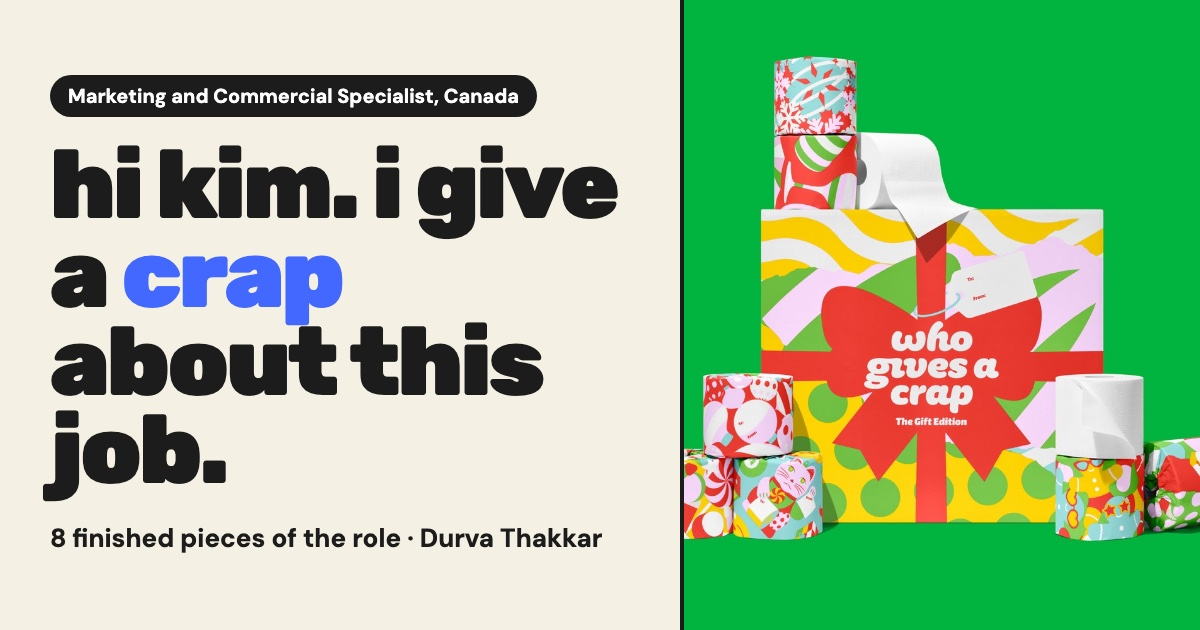
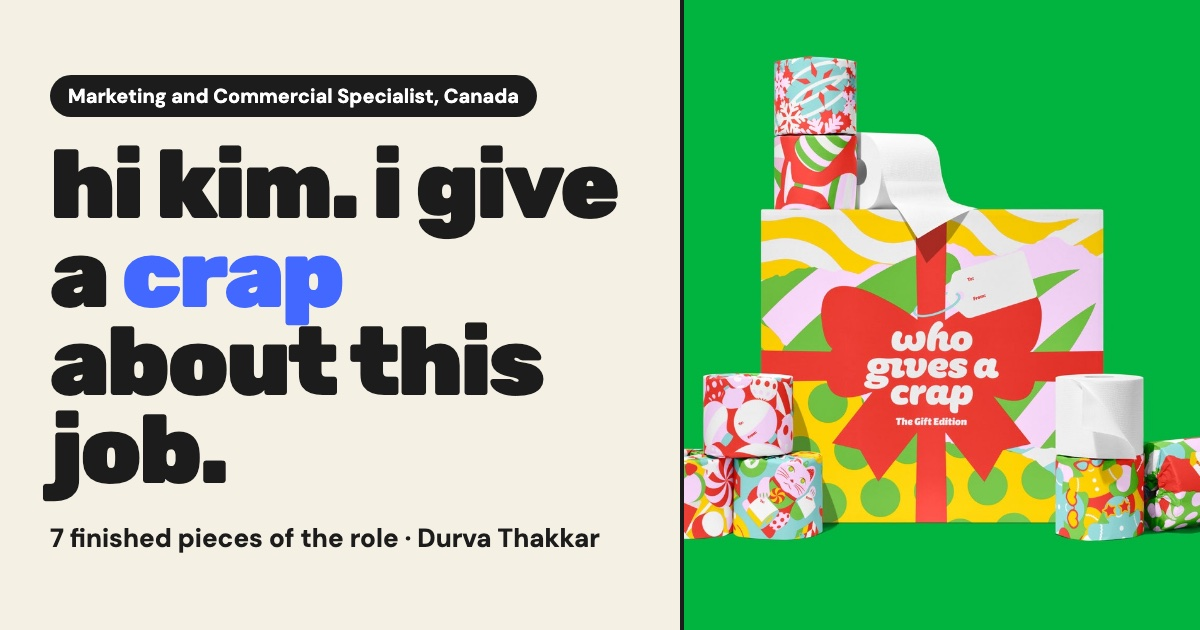
WGAC: 20-second intro film with Kim, Kim on a hero roll, ticker, scroll motion; budget section and hero chips removed

Changed region(s): [[0.0308, 0.8444, 0.5242, 0.8746]]

diff --git a/wgac/index.html b/wgac/index.html
@@ -5,16 +5,16 @@
 <meta name="viewport" content="width=device-width, initial-scale=1">
 <title>Hi Kim · Durva for Who Gives A Crap Canada</title>
 <meta name="robots" content="noindex">
-<meta name="description" content="Marketing and Commercial Specialist, Canada. The first few weeks of the job, already done: campaign board, agency WIP, a Canadian social calendar, a Canadian fit check, influencer review, budget tracker, B2B replies and a test backlog.">
+<meta name="description" content="Marketing and Commercial Specialist, Canada. The first few weeks of the job, already done: campaign board, agency WIP, a Canadian social calendar, a Canadian fit check, influencer review, B2B replies and a test backlog.">
 <meta property="og:title" content="Hi Kim. I give a crap about this job.">
-<meta property="og:description" content="Eight finished pieces of the Marketing and Commercial Specialist role, made for Who Gives A Crap Canada.">
+<meta property="og:description" content="Seven finished pieces of the Marketing and Commercial Specialist role, made for Who Gives A Crap Canada.">
 <meta property="og:type" content="website">
 <meta property="og:url" content="https://durvathakkar.com/wgac/">
-<meta property="og:image" content="https://durvathakkar.com/wgac/share.jpg?v=1">
+<meta property="og:image" content="https://durvathakkar.com/wgac/share.jpg?v=2">
 <meta property="og:image:width" content="1200">
 <meta property="og:image:height" content="630">
 <meta name="twitter:card" content="summary_large_image">
-<meta name="twitter:image" content="https://durvathakkar.com/wgac/share.jpg?v=1">
+<meta name="twitter:image" content="https://durvathakkar.com/wgac/share.jpg?v=2">
 <link rel="preconnect" href="https://fonts.googleapis.com">
 <link rel="preconnect" href="https://fonts.gstatic.com" crossorigin>
 <link href="https://fonts.googleapis.com/css2?family=Rubik:wght@500;700;800;900&family=DM+Sans:opsz,wght@9..40,400;9..40,500;9..40,700&display=swap" rel="stylesheet">
@@ -69,7 +69,7 @@ img{max-width:100%;display:block}
 .call{padding:56px 0 30px}
 .call h2{font-size:clamp(30px,4vw,48px);font-weight:900;text-transform:lowercase}
 .call p{max-width:640px}
-.rolls{display:grid;grid-template-columns:repeat(8,1fr);gap:14px;margin-top:30px}
+.rolls{display:grid;grid-template-columns:repeat(7,1fr);gap:14px;margin-top:30px}
 .rc{text-decoration:none;display:flex;flex-direction:column;align-items:center;gap:12px;text-align:center}
 .rc .roll{position:relative;width:100%;max-width:110px;height:120px;transition:transform .2s}
 .rc:hover .roll{transform:translateY(-8px) rotate(-4deg)}
@@ -190,14 +190,100 @@ dialog::backdrop{background:rgba(28,28,28,.55)}
 .q{background:#fff;border:2px solid var(--ink);border-radius:18px;padding:16px;margin-bottom:12px;font-size:15px}
 .q b{display:block;font-family:Rubik;margin-top:6px;font-size:14px}
 footer{background:var(--blue);color:#fff;padding:70px 0 40px;border-top:2px solid var(--ink)}
-footer h2{font-size:clamp(40px,7vw,96px);font-weight:900;line-height:.92;text-transform:lowercase}
-footer .pill{border-color:#fff}
+footer h2{font-size:clamp(32px,7vw,96px);font-weight:900;line-height:.92;text-transform:lowercase}
+footer .pill{border-color:#fff;margin:6px 6px 0 0;max-width:100%;overflow-wrap:anywhere}
 footer .small{opacity:.85;margin-top:40px}
+
+
+/* kim roll */
+.kimlb{width:78px!important;height:78px!important;overflow:hidden;padding:0;background:#fff!important}
+.kimlb img{width:100%;height:100%;object-fit:cover}
+.kimtag{position:absolute;right:-70px;top:-46px;background:var(--pink);border:2px solid var(--ink);border-radius:14px;padding:6px 10px;font:800 13px/1.05 Rubik;transform:rotate(8deg);white-space:nowrap}
+.kimtag::after{content:"";position:absolute;left:14px;bottom:-9px;width:14px;height:14px;background:var(--pink);border-right:2px solid var(--ink);border-bottom:2px solid var(--ink);transform:rotate(45deg)}
+/* headline pop */
+.pop span{display:inline-block;opacity:0;transform:translateY(40px) rotate(6deg);animation:popin .6s cubic-bezier(.2,1.6,.4,1) forwards}
+.pop span:nth-child(1){animation-delay:.05s}.pop span:nth-child(2){animation-delay:.12s}.pop span:nth-child(3){animation-delay:.19s}.pop span:nth-child(4){animation-delay:.26s}.pop span:nth-child(5){animation-delay:.33s}.pop span:nth-child(6){animation-delay:.45s}.pop span:nth-child(7){animation-delay:.52s}.pop span:nth-child(8){animation-delay:.59s}.pop span:nth-child(9){animation-delay:.66s}
+@keyframes popin{to{opacity:1;transform:none}}
+body.filming .pop span{animation-play-state:paused}
+/* ticker */
+.ticker{background:var(--ink);color:#fff;overflow:hidden;border-bottom:2px solid var(--ink);padding:12px 0}
+.tk{display:flex;gap:28px;width:max-content;animation:tick 38s linear infinite;font:800 18px Rubik;text-transform:lowercase}
+@keyframes tick{to{transform:translateX(-50%)}}
+/* roll call idle wobble */
+.rc .roll{animation:wob 4s ease-in-out infinite}
+.rc:nth-child(2) .roll{animation-delay:.3s}.rc:nth-child(3) .roll{animation-delay:.6s}.rc:nth-child(4) .roll{animation-delay:.9s}.rc:nth-child(5) .roll{animation-delay:1.2s}.rc:nth-child(6) .roll{animation-delay:1.5s}.rc:nth-child(7) .roll{animation-delay:1.8s}
+@keyframes wob{0%,100%{transform:rotate(0)}25%{transform:rotate(-3deg) translateY(-4px)}75%{transform:rotate(3deg)}}
+.rc:hover .roll{animation:none}
+/* scroll reveal */
+.rv{opacity:0;transform:translateY(34px) scale(.98);transition:opacity .7s ease,transform .7s cubic-bezier(.2,1.3,.4,1)}
+.rv.seen{opacity:1;transform:none}
+.sh .num{transition:transform .8s cubic-bezier(.2,1.6,.4,1)}
+.sh.rv:not(.seen) .num{transform:rotate(-180deg) scale(.3)}
+.post.rv:nth-child(5n+2){transition-delay:.07s}.post.rv:nth-child(5n+3){transition-delay:.14s}.post.rv:nth-child(5n+4){transition-delay:.21s}.post.rv:nth-child(5n+5){transition-delay:.28s}
+
+/* ===== FILM ===== */
+body.filming{overflow:hidden}
+#film{position:fixed;inset:0;z-index:100;background:var(--blue);overflow:hidden;font-family:Rubik;color:var(--ink);transition:transform 1s cubic-bezier(.7,0,.3,1)}
+#film.out{transform:translateY(-100%)}
+#film .sc{position:absolute;inset:0;display:flex;flex-direction:column;align-items:center;justify-content:center;text-align:center;padding:24px;opacity:0;visibility:hidden;transition:opacity .45s,visibility .45s}
+#film .sc.on{opacity:1;visibility:visible}
+.f-big{font-weight:900;font-size:clamp(38px,8vw,112px);line-height:.92;letter-spacing:-.03em;text-transform:lowercase}
+.f-mid{font-weight:800;font-size:clamp(20px,3vw,34px);text-transform:lowercase;margin-top:16px}
+.f-small{font:700 clamp(14px,1.8vw,19px) "DM Sans";margin-top:12px}
+.f-w{display:inline-block;opacity:0;transform:translateY(50px) rotate(5deg);transition:all .55s cubic-bezier(.2,1.6,.4,1)}
+.on .f-w{opacity:1;transform:none}
+/* scene 1: roll rolls in and unrolls */
+#s1{background:var(--blue);color:#fff}
+.f-roll{width:clamp(120px,18vw,200px);height:clamp(120px,18vw,200px);border-radius:50%;border:3px solid var(--ink);position:relative;transform:translateX(-80vw) rotate(-720deg);transition:transform 1.6s cubic-bezier(.2,.9,.3,1);background:radial-gradient(circle,#d9cfb6 0 18%,var(--ink) 18% 20%,transparent 20%),conic-gradient(var(--green) 0 25%,#fff 0 50%,var(--green) 0 75%,#fff 0);box-shadow:0 8px 0 var(--ink)}
+.on .f-roll{transform:none}
+.f-strip{height:clamp(54px,8vw,80px);background:#fff;color:var(--ink);border:3px solid var(--ink);border-radius:8px;display:flex;align-items:center;justify-content:center;font:900 clamp(15px,3.6vw,40px) Rubik;text-transform:lowercase;margin-top:26px;width:0;padding:0 10px;overflow:hidden;white-space:nowrap;transition:width 1.4s cubic-bezier(.5,0,.2,1) 1.4s;box-shadow:0 6px 0 var(--ink)}
+.on .f-strip{width:min(86vw,900px)}
+/* scene 2 */
+#s2{background:var(--cream)}
+.f-count{margin-top:22px;font:900 clamp(40px,7vw,90px) Rubik;color:var(--blue)}
+.f-count small{display:block;font:700 clamp(14px,1.8vw,18px) "DM Sans";color:var(--ink)}
+/* scene 3: kim */
+#s3{--c1:var(--green);--c2:#2fd35c;background:radial-gradient(circle at 50% 50%,var(--c2) 26%,transparent 28%) 0 0/34px 34px,var(--c1);color:#fff}
+.f-kim{position:relative;width:clamp(180px,30vmin,300px);aspect-ratio:1;transform:scale(0) rotate(-30deg);transition:transform .9s cubic-bezier(.2,1.7,.4,1) .2s}
+.on .f-kim{transform:none}
+.f-kim img{position:absolute;inset:14%;width:72%;height:72%;border-radius:50%;object-fit:cover;border:4px solid var(--ink)}
+.f-kim .ring{position:absolute;inset:0;border-radius:50%;border:4px solid var(--ink);background:repeating-conic-gradient(var(--pink) 0 15deg,var(--red) 0 30deg);animation:spin 10s linear infinite;-webkit-mask:radial-gradient(circle,transparent 57%,#000 58%);mask:radial-gradient(circle,transparent 57%,#000 58%)}
+.f-kim .hand{position:absolute;right:-6%;top:2%;font-size:clamp(40px,7vmin,70px);animation:wave 1s ease-in-out infinite;transform-origin:70% 70%}
+@keyframes wave{50%{transform:rotate(20deg)}}
+.f-kim .lbl{position:absolute;left:50%;bottom:-6%;transform:translateX(-50%) rotate(-4deg);background:var(--yellow);color:var(--ink);border:3px solid var(--ink);border-radius:999px;padding:6px 16px;font:900 clamp(16px,2.4vw,24px) Rubik;white-space:nowrap}
+#s3 .f-big{margin-top:30px;text-shadow:0 4px 0 var(--ink)}
+.conf{position:absolute;top:-60px;width:26px;height:34px;border:2px solid var(--ink);border-radius:6px;animation:fall linear forwards}
+@keyframes fall{to{transform:translateY(115vh) rotate(540deg)}}
+/* scene 4: packing the box */
+#s4{background:var(--cream);justify-content:flex-start;padding-top:7vh}
+#s4 .f-mid{margin-top:0;max-width:820px;font-size:clamp(22px,3.4vw,40px);font-weight:900}
+.f-pack{position:relative;display:flex;gap:clamp(16px,4vw,60px);align-items:flex-end;margin-top:calc(4vh + clamp(70px,10vw,110px))}
+.f-box{position:relative;width:clamp(220px,34vw,380px);height:clamp(150px,22vw,240px);background:#c9a56b;border:3px solid var(--ink);border-radius:10px;box-shadow:0 8px 0 var(--ink);display:grid;place-items:center;font:900 clamp(26px,4vw,46px)/.9 Rubik;text-transform:lowercase;z-index:2}
+.f-box::before,.f-box::after{content:"";position:absolute;top:-3px;width:50%;height:44%;background:#b8935a;border:3px solid var(--ink);transform-origin:top;transition:transform .6s}
+.f-box::before{left:-3px;border-radius:10px 0 0 0;transform:rotateX(180deg) translateY(2px) skewX(-8deg);transform-origin:top left}
+.f-box::after{right:-3px;border-radius:0 10px 0 0;transform:rotateX(180deg) translateY(2px) skewX(8deg);transform-origin:top right}
+.f-drop{position:absolute;left:50%;bottom:30%;width:clamp(36px,5vw,56px);height:clamp(44px,6vw,66px);margin-left:calc(clamp(36px,5vw,56px)/-2);border:3px solid var(--ink);border-radius:9px;z-index:1;transform:translateY(-70vh) rotate(var(--r));transition:transform .55s cubic-bezier(.5,0,.7,1.4)}
+.f-drop.in{transform:translateY(0) translateX(var(--x)) rotate(var(--r))}
+.f-list{list-style:none;margin:0;padding:0;text-align:left;font:800 clamp(14px,1.9vw,20px) Rubik}
+.f-list li{opacity:.25;transition:opacity .3s;margin:6px 0;text-transform:lowercase}
+.f-list li.ok{opacity:1}
+.f-list li.ok::before{content:"✓ ";color:var(--green)}
+/* scene 5 */
+#s5{background:var(--yellow)}
+.f-stamp{margin-top:26px;border:4px solid var(--red);color:var(--red);border-radius:12px;padding:10px 20px;font:900 clamp(18px,3vw,30px) Rubik;text-transform:uppercase;transform:rotate(-8deg) scale(3);opacity:0;transition:all .45s cubic-bezier(.3,1.6,.5,1) .5s}
+.on .f-stamp{transform:rotate(-8deg) scale(1);opacity:1}
+.f-go{margin-top:30px;font:800 20px Rubik;background:var(--ink);color:#fff;border:0;border-radius:999px;padding:16px 28px;cursor:pointer;box-shadow:0 6px 0 rgba(0,0,0,.25)}
+/* controls */
+.f-skip{position:absolute;right:16px;top:16px;z-index:5;font:800 14px Rubik;background:#fff;border:2px solid var(--ink);border-radius:999px;padding:9px 16px;cursor:pointer}
+.f-prog{position:absolute;left:0;bottom:0;height:6px;background:var(--ink);width:0;z-index:5}
+.f-sound{position:absolute;left:16px;bottom:18px;z-index:5;font:800 13px Rubik;background:rgba(255,255,255,.85);border:2px solid var(--ink);border-radius:999px;padding:8px 14px}
+@media (max-width:640px){.f-pack{flex-direction:column;align-items:center}.f-list{display:grid;grid-template-columns:1fr 1fr;gap:0 14px}.kimtag{right:-40px}}
 
 @media (max-width:980px){
   .hero .wrap,.big-idea,.grid2,.me,.dlg,.ba{grid-template-columns:1fr}
   .stack{height:300px}
-  .rolls{grid-template-columns:repeat(4,1fr)}
+  .rolls{grid-template-columns:repeat(4,minmax(0,1fr));gap:10px}
+  .rc b{font-size:12.5px}
   .cal{grid-template-columns:repeat(2,1fr)}
   .grid3,.tests{grid-template-columns:1fr}
   .rag{grid-template-columns:repeat(2,1fr)}
@@ -215,19 +301,30 @@ footer .small{opacity:.85;margin-top:40px}
 @media (prefers-reduced-motion:reduce){*{animation:none!important;transition:none!important}}
 </style>
 </head>
-<body>
+<body class="filming">
+<div id="film" role="dialog" aria-label="A 20-second intro film">
+  <button class="f-skip" id="fSkip">Skip intro →</button>
+  <div class="f-sound">A 20-second hello · no sound</div>
+  <div class="sc" id="s1"><div class="f-roll"></div><div class="f-strip">toronto. november 2026.</div><div class="f-small" style="color:#fff">a job post went up…</div></div>
+  <div class="sc" id="s2"><div class="f-big"><span class="f-w">marketing</span> <span class="f-w" style="transition-delay:.1s">and</span> <span class="f-w" style="transition-delay:.2s">commercial</span> <span class="f-w" style="transition-delay:.3s">specialist,</span> <span class="f-w" style="transition-delay:.45s;color:var(--blue)">canada.</span></div><div class="f-count"><span id="fNum">0</span>+<small>people applied. one of them made something.</small></div></div>
+  <div class="sc" id="s3"><div class="f-kim"><div class="ring"></div><img src="img/kim.jpg" alt="Kim"><span class="hand">👋</span><span class="lbl">100% kim</span></div><div class="f-big">hi kim.</div><div class="f-mid" style="color:#fff;text-shadow:0 3px 0 var(--ink)">this one's for you.</div></div>
+  <div class="sc" id="s4"><div class="f-mid">so i packed the first few weeks of the job into a box.</div>
+    <div class="f-pack"><div style="position:relative"><div class="f-box">who<br>gives a<br>crap</div><div id="fDrops"></div></div>
+    <ul class="f-list" id="fList"><li>a holiday campaign</li><li>the agency wip</li><li>a canadian social calendar</li><li>a canadian fit check</li><li>an influencer review</li><li>the b2b inbox</li><li>what to test next</li></ul></div></div>
+  <div class="sc" id="s5"><div class="f-big"><span class="f-w">delivered.</span><br><span class="f-w" style="transition-delay:.15s">as regular as you are.</span></div><div class="f-stamp">from durva · barrie, on 🍁</div><button class="f-go" id="fGo">unroll it →</button></div>
+  <div class="f-prog" id="fProg"></div>
+</div>
 
-<div class="bar">Made for Kim and the Who Gives A Crap Canada team · <a href="#roll-call">Skip to the work</a></div>
+<div class="bar">Made for Kim and the Who Gives A Crap Canada team · <a href="#roll-call">Skip to the work</a> · <a href="#" id="replay">Replay the film</a></div>
 
 <header class="hero">
   <div class="wrap">
     <div>
       <span class="tag">Marketing and Commercial Specialist, Canada</span>
-      <h1 style="margin-top:18px">hi kim. i give a <span class="u">crap</span> about this job.</h1>
-      <p class="lede">I'm Durva, a content and social marketer in Barrie, Ontario. I made the first few weeks of this role already: a holiday campaign board, an agency WIP, a Canadian social calendar, a Canadian fit check, an influencer pitch review, a budget tracker, B2B replies and a list of tests to run next.</p>
+      <h1 style="margin-top:18px" class="pop"><span>hi</span> <span>kim.</span> <span>i</span> <span>give</span> <span>a</span> <span class="u">crap</span> <span>about</span> <span>this</span> <span>job.</span></h1>
+      <p class="lede">I'm Durva, a content and social marketer in Barrie, Ontario. I made the first few weeks of this role already: a holiday campaign board, an agency WIP, a Canadian social calendar, a Canadian fit check, an influencer pitch review, B2B replies and a list of tests to run next.</p>
       <a class="pill blue" href="#roll-call">Unroll the work ↓</a>
       <a class="pill" href="#me" style="margin-left:6px">Who's Durva?</a>
-      <div class="meta"><span>Barrie, ON · 1 hr to Toronto</span><span>Open work permit</span><span>Canadian spelling, eh</span></div>
     </div>
     <div class="stack" aria-hidden="true">
       <div class="sticker">50% of<br>profits<br>to toilets</div>
@@ -235,23 +332,24 @@ footer .small{opacity:.85;margin-top:40px}
       <div class="roll p-check" style="--c1:#fff;--c2:var(--ink);left:34%;top:270px;animation-delay:.4s"><span class="lb">who<br>gives a<br>crap</span></div>
       <div class="roll p-wave" style="--c1:var(--pink);--c2:var(--red);left:64%;top:245px;--r:5deg;animation-delay:.8s"><span class="lb">who<br>gives a<br>crap</span></div>
       <div class="roll p-stripe" style="--c1:var(--yellow);--c2:var(--orange);left:19%;top:95px;--r:4deg;animation-delay:1.2s"><span class="lb">who<br>gives a<br>crap</span></div>
-      <div class="roll p-blob" style="--c1:var(--sky);--c2:var(--blue);left:49%;top:110px;--r:-4deg;animation-delay:1.6s"><span class="lb">who<br>gives a<br>crap</span></div>
+      <div class="roll p-blob kimroll" style="--c1:var(--sky);--c2:var(--blue);left:49%;top:110px;--r:-4deg;animation-delay:1.6s"><span class="lb kimlb"><img src="img/kim.jpg" alt="Kim"></span><span class="kimtag">this one's<br>for kim</span></div>
     </div>
   </div>
 </header>
 
+<div class="ticker" aria-hidden="true"><div class="tk"><span>50% of profits to toilets</span><span>🧻</span><span>canadian spelling, eh</span><span>🍁</span><span>no quebec shipping (yet)</span><span>🧻</span><span>free shipping over $40 in ON, AB, BC</span><span>🍁</span><span>made in barrie, ontario</span><span>🧻</span><span>50% of profits to toilets</span><span>🍁</span><span>canadian spelling, eh</span><span>🧻</span><span>no quebec shipping (yet)</span><span>🍁</span><span>free shipping over $40 in ON, AB, BC</span><span>🧻</span><span>made in barrie, ontario</span><span>🍁</span></div></div>
+
 <div class="wrap call" id="roll-call">
   <h2>the roll call.</h2>
-  <p>One roll for each part of the job post. Pick one, or just keep scrolling. The holiday dates are real (Nov 19 to Dec 31, 2026). Budget and performance numbers are samples, set up so real ones drop straight in.</p>
+  <p>One roll for each part of the job post. Pick one, or just keep scrolling. The holiday dates are real (Nov 19 to Dec 31, 2026). Campaign and performance numbers are samples, set up so real ones drop straight in.</p>
   <div class="rolls">
     <a class="rc" href="#campaign"><div class="roll p-dots" style="--c1:var(--green);--c2:#fff"><span class="lb">01</span></div><b>Campaign delivery</b></a>
     <a class="rc" href="#agency"><div class="roll p-check" style="--c1:#fff;--c2:var(--ink)"><span class="lb">02</span></div><b>Agency WIP</b></a>
     <a class="rc" href="#calendar"><div class="roll p-wave" style="--c1:var(--pink);--c2:var(--red)"><span class="lb">03</span></div><b>Social calendar</b></a>
     <a class="rc" href="#fit"><div class="roll p-stripe" style="--c1:var(--yellow);--c2:var(--orange)"><span class="lb">04</span></div><b>Canadian fit check</b></a>
     <a class="rc" href="#influencer"><div class="roll p-blob" style="--c1:var(--sky);--c2:var(--blue)"><span class="lb">05</span></div><b>Influencer review</b></a>
-    <a class="rc" href="#budget"><div class="roll p-dots" style="--c1:var(--red);--c2:var(--pink)"><span class="lb">06</span></div><b>Budget tracker</b></a>
-    <a class="rc" href="#b2b"><div class="roll p-check" style="--c1:var(--lime);--c2:var(--green)"><span class="lb">07</span></div><b>B2B inbox</b></a>
-    <a class="rc" href="#tests"><div class="roll p-wave" style="--c1:var(--blue);--c2:var(--sky)"><span class="lb">08</span></div><b>What to test next</b></a>
+    <a class="rc" href="#b2b"><div class="roll p-check" style="--c1:var(--lime);--c2:var(--green)"><span class="lb">06</span></div><b>B2B inbox</b></a>
+    <a class="rc" href="#tests"><div class="roll p-wave" style="--c1:var(--blue);--c2:var(--sky)"><span class="lb">07</span></div><b>What to test next</b></a>
   </div>
 </div>
 
@@ -399,22 +497,10 @@ footer .small{opacity:.85;margin-top:40px}
   </div>
 </section>
 
-<!-- 06 BUDGET -->
-<section class="s" id="budget">
-  <div class="wrap">
-    <div class="sh"><div class="num" style="background:var(--red)">06</div><div><h2>every dollar, tracked.</h2><div class="jd"><b>The job:</b> maintain the Canadian marketing budget tracker.</div></div></div>
-    <p class="intro">Planned, committed and actual for each line, in CAD. Committed is what's signed. Actual is what's invoiced. The gap between them is where surprises hide. Edit any number and it recalculates. These are sample numbers.</p>
-    <div class="card bud">
-      <div class="scroll"><table class="tbl" id="budT"><thead><tr><th>Line</th><th>Planned</th><th>Committed</th><th>Actual</th><th>Left to commit</th><th>Spent</th><th></th></tr></thead><tbody></tbody><tfoot></tfoot></table></div>
-      <div style="display:flex;gap:10px;flex-wrap:wrap;margin-top:14px"><button class="pill ink" id="csv">Download CSV</button><span class="small" id="budNote" style="align-self:center"></span></div>
-    </div>
-  </div>
-</section>
-
-<!-- 07 B2B -->
+<!-- 06 B2B -->
 <section class="s" id="b2b">
   <div class="wrap">
-    <div class="sh"><div class="num" style="background:var(--green)">07</div><div><h2>the business inbox.</h2><div class="jd"><b>The job:</b> handle inbound Canadian B2B enquiries, from bulk requests to reorders.</div></div></div>
+    <div class="sh"><div class="num" style="background:var(--green)">06</div><div><h2>the business inbox.</h2><div class="jd"><b>The job:</b> handle inbound Canadian B2B enquiries, from bulk requests to reorders.</div></div></div>
     <p class="intro">Every enquiry gets sorted, answered within one business day, and logged so we can see what businesses want. These are the five types I'd expect, and the reply each one gets.</p>
     <div class="tabs" id="b2bTabs"></div>
     <div class="grid2">
@@ -424,10 +510,10 @@ footer .small{opacity:.85;margin-top:40px}
   </div>
 </section>
 
-<!-- 08 TESTS -->
+<!-- 07 TESTS -->
 <section class="s" id="tests">
   <div class="wrap">
-    <div class="sh"><div class="num" style="background:var(--blue2)">08</div><div><h2>what to test next.</h2><div class="jd"><b>The job:</b> use dashboards and data to work out what to test next.</div></div></div>
+    <div class="sh"><div class="num" style="background:var(--blue2)">07</div><div><h2>what to test next.</h2><div class="jd"><b>The job:</b> use dashboards and data to work out what to test next.</div></div></div>
     <p class="intro">Six tests for Canada, ranked by ICE (impact, confidence, ease, out of 10 each). Each starts from something real on the Canadian site or in your launch research, and has a rule for what we'd do with the result.</p>
     <div class="tests" id="testList"></div>
   </div>
@@ -439,7 +525,7 @@ footer .small{opacity:.85;margin-top:40px}
     <div class="sh"><div class="num" style="background:var(--ink)">+</div><div><h2>small things i noticed.</h2><div class="jd">From ca.whogivesacrap.org, checked Nov 14, 2026. All small, all easy wins.</div></div></div>
     <ul class="notes card" style="padding-left:40px">
       <li><b>Garbage or trash?</b> The Canadian homepage uses both words (and "Trash, compost and pet poo!"). Canadians mostly say garbage bags and search for them that way. Picking one helps search and feels more local.</li>
-      <li><b>A home for business enquiries.</b> The AU footer links to Wholesale, a Discount program and an Affiliate program. The Canadian site doesn't have these yet, so a one-page "Who Gives A Crap for business" in Canada would give bulk and office enquiries somewhere to land (copy for it is in roll 07).</li>
+      <li><b>A home for business enquiries.</b> The AU footer links to Wholesale, a Discount program and an Affiliate program. The Canadian site doesn't have these yet, so a one-page "Who Gives A Crap for business" in Canada would give bulk and office enquiries somewhere to land (copy for it is in roll 06).</li>
       <li><b>Free shipping is regional.</b> The shipping page is clear that free shipping over $40 is for Ontario, Alberta and BC. The homepage says "most orders over $40", which is true, and a province note there would save some confused carts in Manitoba and Nova Scotia.</li>
     </ul>
   </div>
@@ -464,13 +550,12 @@ footer .small{opacity:.85;margin-top:40px}
     <p style="font-size:19px;max-width:620px;margin:20px 0 26px">Kim, if any of this is useful, I'd love 15 minutes to hear what the Canadian team needs most in the first 90 days. Coffee in Toronto works too.</p>
     <a class="pill ink" href="mailto:durvathakker7@gmail.com?subject=Who%20Gives%20A%20Crap%20Canada%20%C2%B7%20Marketing%20and%20Commercial%20Specialist">durvathakker7@gmail.com</a>
     <a class="pill" style="color:var(--ink)" href="https://www.linkedin.com/in/durvathakkar/" target="_blank" rel="noopener">Durva on LinkedIn ↗</a>
-    <p class="small">Made by Durva Thakkar for Who Gives A Crap Canada. Product photos are Who Gives A Crap's own, from ca.whogivesacrap.org. The campaign, budget, pitch and performance numbers are samples. Facts about Who Gives A Crap come from your Canadian site and your October 2025 launch release.</p>
+    <p class="small">Made by Durva Thakkar for Who Gives A Crap Canada. Product photos are Who Gives A Crap's own, from ca.whogivesacrap.org. The campaign, pitch and performance numbers are samples. Facts about Who Gives A Crap come from your Canadian site and your October 2025 launch release.</p>
   </div>
 </footer>
 
 <script>
 const $=s=>document.querySelector(s),$$=s=>[...document.querySelectorAll(s)];
-const money=n=>'$'+Math.round(n).toLocaleString('en-CA');
 
 /* 01 board */
 const BOARD=[
@@ -541,15 +626,6 @@ const low=CRIT.map((c,i)=>[c[0],+$('#s'+i).value]).filter(x=>x[1]<=3).map(x=>x[0
 $('#memo').textContent=`To: Kim\nRe: Toronto home and lifestyle creator, Gift Edition\n\nRecommendation: ${v[0]} (${s}/100).\n\nWhy: strong fit with the brand's humour, and 61% of the audience is Canadian, mostly in Ontario, where we ship free over $40. Comments show people actually ask about products.\n\n${low.length?'Watch: '+low.join(', ')+'.\n\n':''}Changes before sign-off: add paid usage for 30 days so we can boost the Reel in ON, AB and BC (agency to quote, est. $800 to $1,200). Ask for no other paper or cleaning brand within 30 days either side. Script must include the boreal fact and the 50% line.\n\nDisclosure: "Paid partnership" label plus #ad in the first line.`}
 CRIT.forEach((c,i)=>$('#s'+i).oninput=inf);inf();
 
-/* 06 budget */
-const BUD=[['Influencer',18000,15500,9800],['Paid social',14000,14000,8420],['PR agency',9000,9000,6000],['Toronto pop-up',8500,7900,2150],['Content and production',6000,4200,3100],['Product for seeding and gifting',3500,2800,2800],['Contingency',1000,0,0]];
-function bud(){const tb=$('#budT tbody');tb.innerHTML=BUD.map((r,i)=>{const left=r[1]-r[2],pct=r[1]?Math.min(100,r[3]/r[1]*100):0,w=r[2]>r[1]?'Over plan':r[3]>r[2]?'Invoiced more than signed':'';return `<tr><td><b>${r[0]}</b></td>${[1,2,3].map(j=>`<td><input type="number" value="${r[j]}" data-i="${i}" data-j="${j}" aria-label="${r[0]}"></td>`).join('')}<td class="${left<0?'warn':''}">${money(left)}</td><td><div class="barw"><i style="width:${pct}%"></i></div><span class="small">${Math.round(pct)}%</span></td><td class="warn">${w}</td></tr>`}).join('');
-const t=[1,2,3].map(j=>BUD.reduce((a,r)=>a+r[j],0));$('#budT tfoot').innerHTML=`<tr class="tot"><td>Total</td><td>${money(t[0])}</td><td>${money(t[1])}</td><td>${money(t[2])}</td><td>${money(t[0]-t[1])}</td><td>${Math.round(t[2]/t[0]*100)}% spent</td><td></td></tr>`;
-$('#budNote').textContent=`${money(t[1]-t[2])} signed but not yet invoiced. Plan for it before Dec 31.`;
-$$('#budT input').forEach(n=>n.onchange=()=>{BUD[n.dataset.i][n.dataset.j]=+n.value||0;bud()})}
-bud();
-$('#csv').onclick=()=>{const rows=[['Line','Planned','Committed','Actual','Left to commit'],...BUD.map(r=>[r[0],r[1],r[2],r[3],r[1]-r[2]])];const a=document.createElement('a');a.href=URL.createObjectURL(new Blob([rows.map(r=>r.join(',')).join('\n')],{type:'text/csv'}));a.download='wgac-canada-budget.csv';a.click()};
-
 /* 07 b2b */
 const B2B=[
  {t:'Bulk order',to:'office.manager@(a Toronto company)',s:'Re: Toilet paper for our office',b:`<p>Hi Priya,</p><p>Thanks for thinking of us for the office! For 15 washrooms, I'd suggest the 48-roll box of 100% Recycled Toilet Paper. The rolls are triple length, so you'll change them a lot less often.</p><p>Two options:</p><ul><li><b>One-off order:</b> 48 rolls for $69 CAD, free shipping in Ontario.</li><li><b>Subscription:</b> set the delivery schedule to your usage, and skip or change it anytime. $10 off the first box.</li></ul><p>If you need more than 10 boxes at once or an invoice in your company's name, reply with the quantity and your address and I'll send a quote within one business day.</p><p>And every order helps fund toilets and clean water. Your team can feel good about that one.</p><p>Durva<br>Who Gives A Crap Canada</p>`,side:`<h4>Triage</h4><p><b>Signals:</b> "office", "team", "bulk", quantities over 4 boxes.</p><p><b>Reply within:</b> 1 business day.</p><p><b>Goal:</b> a subscription, not a one-off.</p><p><b>Log:</b> company size, province, product, quote sent, won or lost.</p>`},
@@ -573,6 +649,37 @@ const TESTS=[
 ];
 TESTS.sort((a,b)=>(b.i+b.c+b.e)-(a.i+a.c+a.e));
 $('#testList').innerHTML=TESTS.map((t,n)=>`<div class="test"><span class="ice" title="Impact ${t.i}, confidence ${t.c}, ease ${t.e}">${t.i+t.c+t.e}</span><span class="tag">Test ${n+1}</span><h4>${t.h}</h4><dl><dt>Why now</dt><dd>${t.why}</dd><dt>The test</dt><dd>${t.test}</dd><dt>Measure</dt><dd>${t.m}</dd><dt>Decision rule</dt><dd>${t.rule}</dd></dl></div>`).join('');
+
+/* ===== FILM ===== */
+(function(){
+ const film=$('#film');let timers=[],raf;const D=20500;
+ const COLORS=['var(--green)','var(--pink)','var(--yellow)','var(--sky)','var(--red)','var(--lime)','var(--orange)'];
+ function show(id){$$('#film .sc').forEach(s=>s.classList.toggle('on',s.id===id))}
+ function T(ms,fn){timers.push(setTimeout(fn,ms))}
+ function end(){timers.forEach(clearTimeout);timers=[];cancelAnimationFrame(raf);film.classList.add('out');document.body.classList.remove('filming');setTimeout(()=>{film.style.display='none'},1000);try{sessionStorage.setItem('wgacFilm','1')}catch(e){}}
+ function confetti(){const s3=$('#s3');for(let i=0;i<18;i++){const c=document.createElement('i');c.className='conf';c.style.left=Math.random()*100+'%';c.style.background=COLORS[i%7];c.style.animationDuration=(2.2+Math.random()*2)+'s';c.style.animationDelay=(Math.random()*1.2)+'s';s3.appendChild(c);T(5200,()=>c.remove())}}
+ function play(){
+  timers.forEach(clearTimeout);timers=[];film.style.display='';film.classList.remove('out');document.body.classList.add('filming');scrollTo(0,0);
+  $$('#film .sc').forEach(s=>s.classList.remove('on'));$('#fDrops').innerHTML='';$$('#fList li').forEach(l=>l.classList.remove('ok'));$('#fNum').textContent='0';
+  const t0=performance.now();(function p(){const k=Math.min(1,(performance.now()-t0)/D);$('#fProg').style.width=k*100+'%';if(k<1)raf=requestAnimationFrame(p)})();
+  T(50,()=>show('s1'));
+  T(3600,()=>{show('s2');let n=0;const iv=setInterval(()=>{n+=7;$('#fNum').textContent=Math.min(n,200);if(n>=200)clearInterval(iv)},18);timers.push(iv)});
+  T(7200,()=>{show('s3');confetti()});
+  T(11000,()=>{show('s4');const box=$('#fDrops');for(let i=0;i<7;i++){const d=document.createElement('div');d.className='f-drop';d.style.background=COLORS[i];d.style.setProperty('--x',((i-3)*14)+'%');d.style.setProperty('--r',((i%2?1:-1)*(6+i*2))+'deg');box.appendChild(d);T(700+i*560,()=>{d.classList.add('in');$$('#fList li')[i].classList.add('ok')})}});
+  T(16300,()=>show('s5'));
+  T(D,end);
+ }
+ $('#fSkip').onclick=end;$('#fGo').onclick=end;
+ $('#replay').onclick=e=>{e.preventDefault();play()};
+ let seen=false;try{seen=sessionStorage.getItem('wgacFilm')==='1'}catch(e){}
+ if(seen||matchMedia('(prefers-reduced-motion: reduce)').matches||location.hash){film.style.display='none';document.body.classList.remove('filming')}else play();
+ addEventListener('keydown',e=>{if(e.key==='Escape'&&document.body.classList.contains('filming'))end()});
+})();
+
+/* ===== scroll reveal ===== */
+(function(){const els=$$('.sh,.card,.post,.test,.q,.big-idea,.mail,.rag div,.ba .card');els.forEach(e=>e.classList.add('rv'));
+ if(!('IntersectionObserver' in window)){els.forEach(e=>e.classList.add('seen'));return}
+ const io=new IntersectionObserver(es=>es.forEach(x=>{if(x.isIntersecting){x.target.classList.add('seen');io.unobserve(x.target)}}),{threshold:.12,rootMargin:'0px 0px -40px 0px'});els.forEach(e=>io.observe(e))})();
 </script>
 </body>
 </html>
